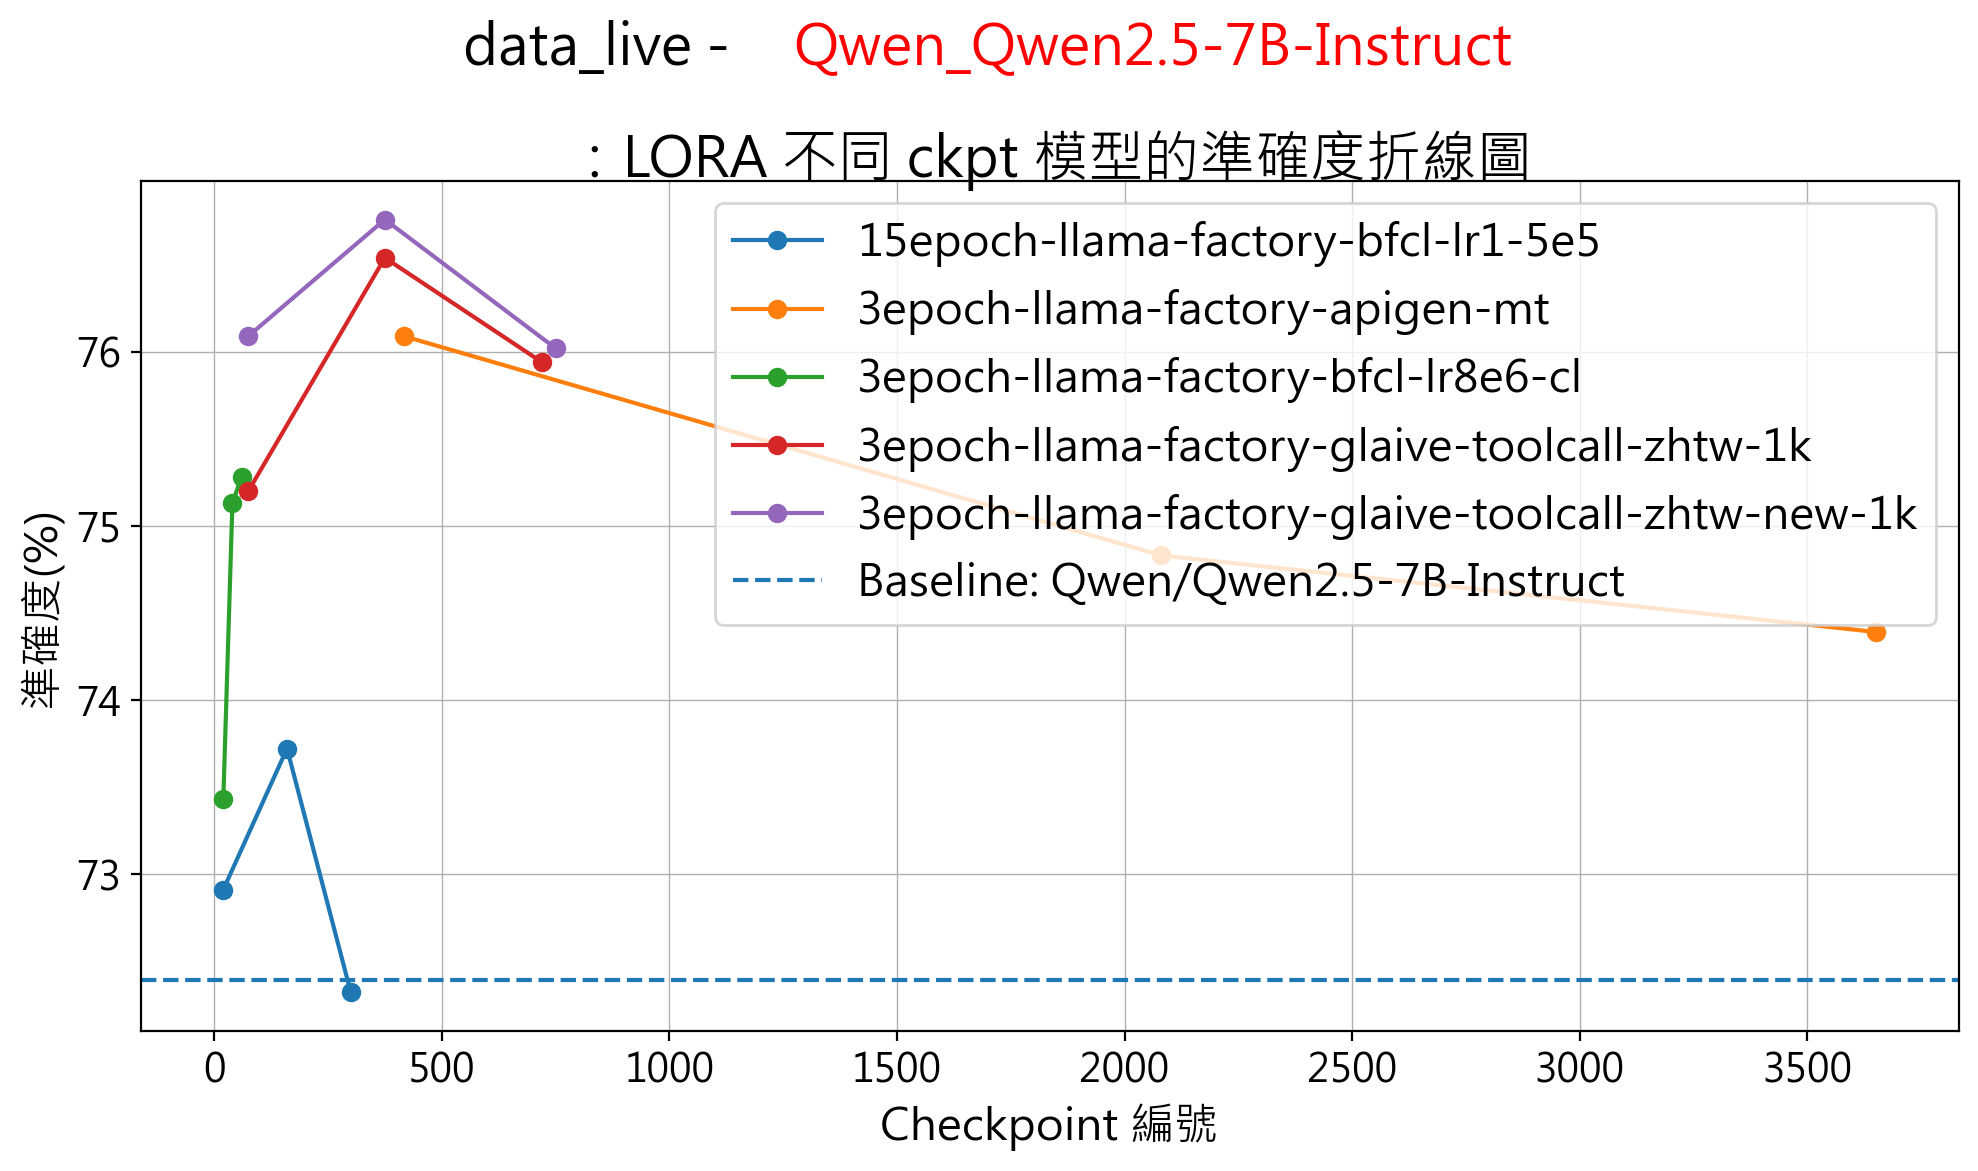
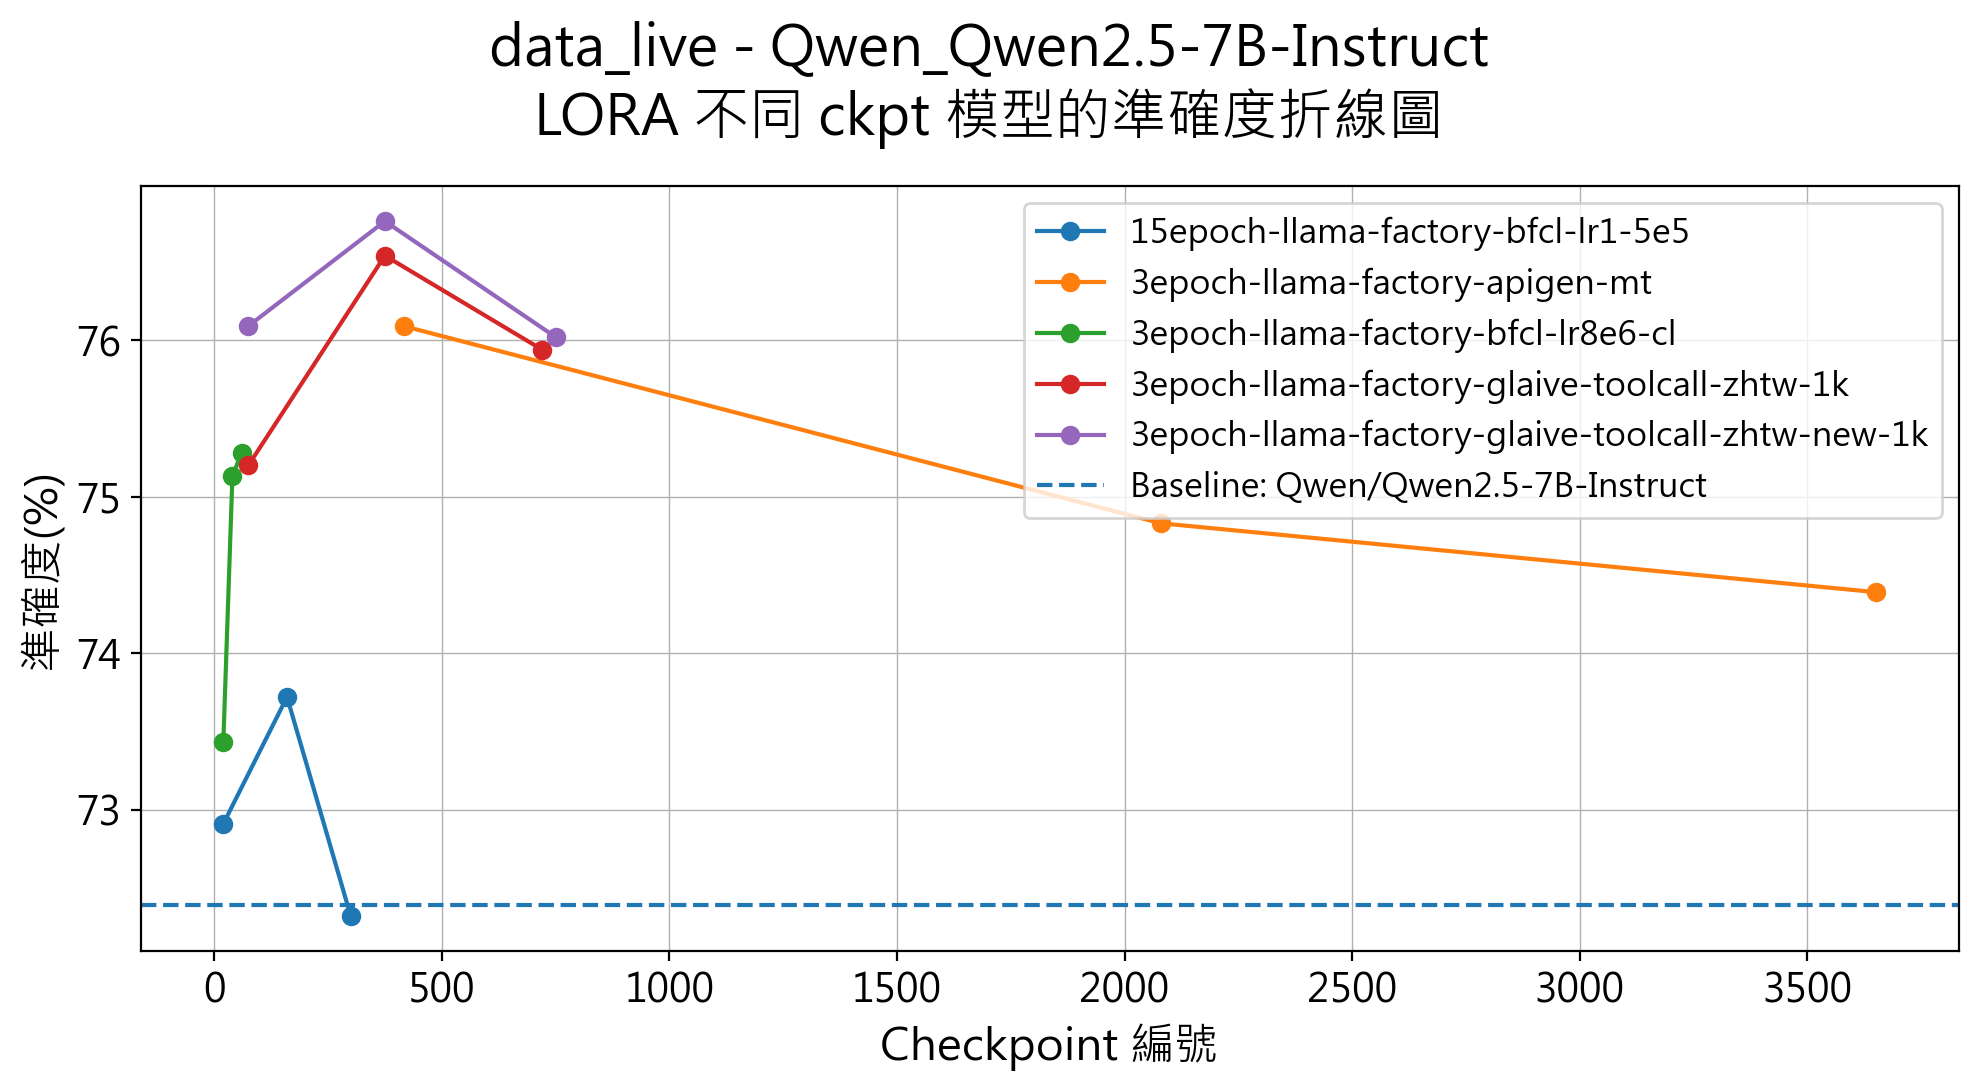
更新圖表標題格式並調整圖例字體大小，刪除不必要的圖像文件

diff --git a/berkeley-function-call-leaderboard/plot_ckpt_lora.py b/berkeley-function-call-leaderboard/plot_ckpt_lora.py
@@ -303,45 +303,19 @@ def plot_base_model_group(ckpt_df: pd.DataFrame, full_df: pd.DataFrame,
     ax.tick_params(axis='both', labelsize=14)
     stem, _ = os.path.splitext(os.path.basename(csv_path))
     
-    # 設置標題，模型名稱用紅色 - 計算位置使整體置中
-    title_y = 1.12
-    title_fontsize = 20
-    # 建立完整標題文字以計算總寬度
-    title_part1 = f"{stem} - "
-    title_part2 = base_model
+    fig = plt.gcf()
+
+    # suptitle 使用 LaTeX 上色/粗體：底線需要 escape
+    base_model_tex = base_model.replace("_", r"\_")
+    fig = plt.gcf()
+    fig.suptitle(
+        f"{stem} - {base_model}\nLORA 不同 ckpt 模型的準確度折線圖",
+        fontsize=20,
+        y=0.9,
+    )
+
     
-    # 使用虛擬 text 來測量文字寬度
-    temp_text1 = ax.text(0, 0, title_part1, fontsize=title_fontsize, alpha=0)
-    temp_text2 = ax.text(0, 0, title_part2, fontsize=title_fontsize, weight='bold', alpha=0)
-    
-    # 強制渲染以獲取邊界框
-    plt.gcf().canvas.draw()
-    bbox1 = temp_text1.get_window_extent(renderer=plt.gcf().canvas.get_renderer())
-    bbox2 = temp_text2.get_window_extent(renderer=plt.gcf().canvas.get_renderer())
-    
-    # 移除臨時文字
-    temp_text1.remove()
-    temp_text2.remove()
-    
-    # 轉換為軸坐標
-    bbox1_ax = bbox1.transformed(ax.transAxes.inverted())
-    bbox2_ax = bbox2.transformed(ax.transAxes.inverted())
-    total_width = bbox1_ax.width + bbox2_ax.width
-    
-    # 計算起始位置使整體置中
-    start_x = 0.5 - total_width / 2
-    
-    # 第一行 - 分段顯示並置中
-    ax.text(start_x, title_y, title_part1, transform=ax.transAxes, 
-            fontsize=title_fontsize, ha='left', va='bottom')
-    ax.text(start_x + bbox1_ax.width, title_y, title_part2, transform=ax.transAxes, 
-            fontsize=title_fontsize, ha='left', va='bottom', color='red', weight='bold')
-    
-    # 第二行
-    ax.text(0.5, title_y - 0.06, "：LORA 不同 ckpt 模型的準確度折線圖", 
-            transform=ax.transAxes, fontsize=20, ha='center', va='top')
-    
-    ax.legend(loc="best", fontsize=16)
+    ax.legend(loc="best", fontsize=12)
     ax.grid(True, which="both", axis="both", linewidth=0.5)
 
     # 建立 base model 專屬資料夾
@@ -350,7 +324,7 @@ def plot_base_model_group(ckpt_df: pd.DataFrame, full_df: pd.DataFrame,
     
     out_png = os.path.join(base_model_dir, f"{stem}_ckpt_lora_lines.png")
 
-    plt.tight_layout()
+    plt.tight_layout(rect=[0, 0, 1, 0.92])
     plt.savefig(out_png, dpi=200, bbox_inches="tight")
     plt.close()
 
